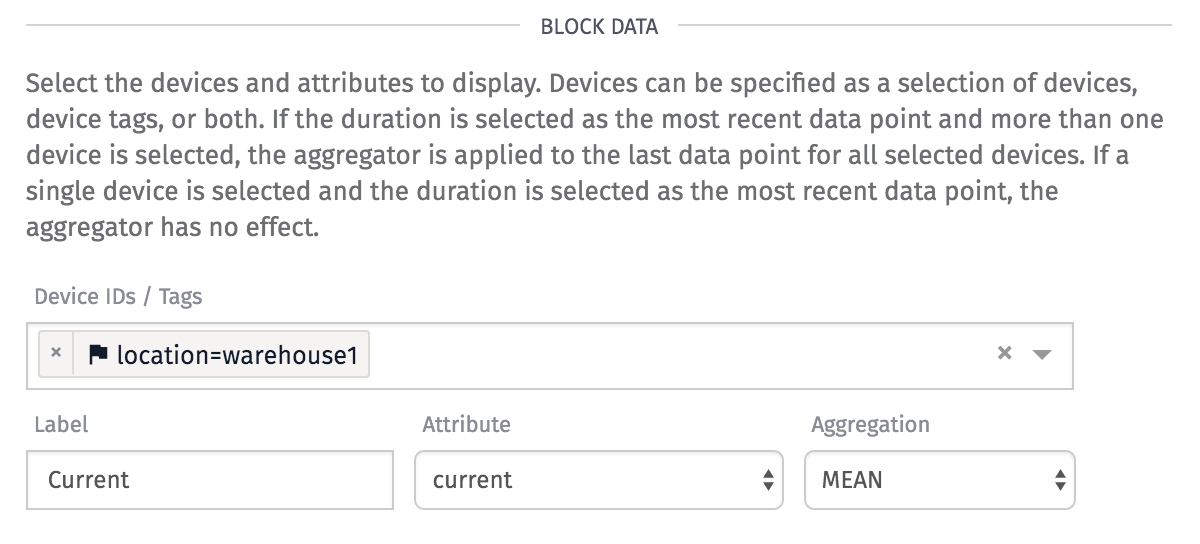
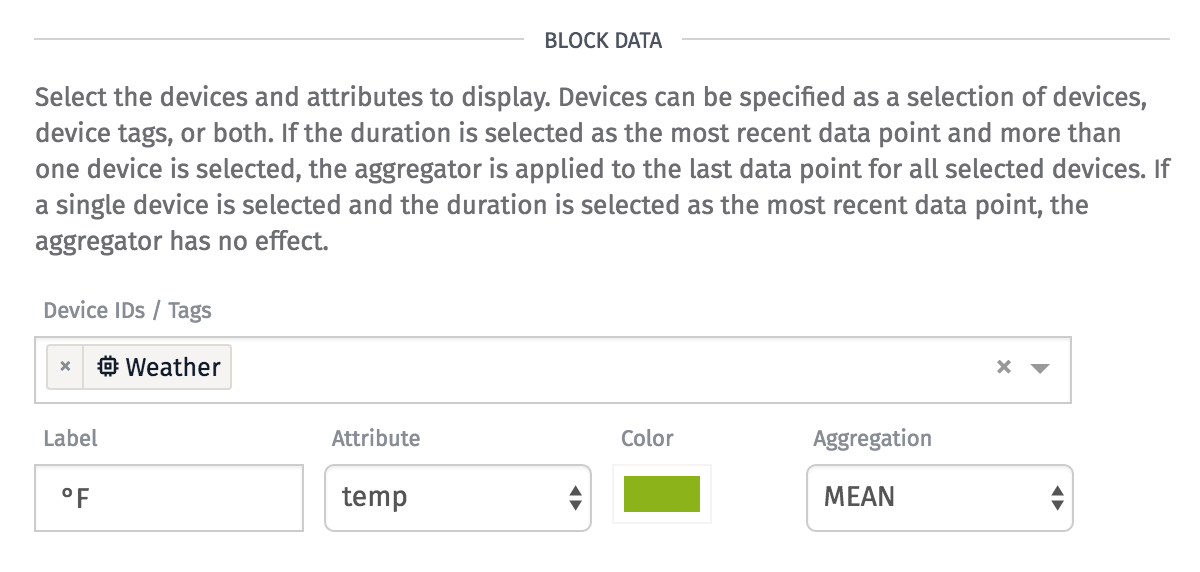
gauge conditions documentation

diff --git a/docs/dashboards/gauge.md b/docs/dashboards/gauge.md
@@ -46,11 +46,23 @@ Note that, when choosing a value other than "Last received data point", it is ne
 
 ### Block Data
 
-The block data takes four parameters, three of which are required:
+The block data takes five parameters, three of which are required:
 
 ![Gauge Block Data](/images/dashboards/gauge-block-data.png "Gauge Block Data")
 
 * **Label** is the text displayed beneath number / dial representation of your device(s) state. This can be any value, but you will want it to properly represent the data displayed along with it. HTML entities and <a href="https://daringfireball.net/projects/markdown/syntax" target="_blank">Markdown</a> are allowed here.
 * **Device IDS / Tags** is a [device query](/devices/device-queries) for choosing which devices are displayed within the gauge.
 * **Attribute** is the device attribute whose value will be displayed in the gauge. This attribute must be of the type `Number`. Note that if data from more than one device is being displayed, each of those devices must supply the same attribute name.
+* **Color** can only be set when the gauge type is set to "Dial". The color picker defaults to green, but any color may be selected as the default gauge color.
 * **Aggregation Type** is only visible when Duration is set to anything other than "Last received data point", OR when a device tag is supplied in the device query, OR if more than one device ID is supplied within the device query. This determines how the all the available data returned should be aggregated before displaying the value. For example, choosing "MEAN" will average all data points together before displaying within the gauge.
+
+### Conditional Gauge Colors
+
+If the gauge type is set to "Dial", you may optionally create a list of conditions that change the color of the gauge depending on the query's returned value. This works similarly to the [indicator block](/dashboards/indicator/), in that the first [expression](/workflows/accessing-payload-data/#expressions) that returns `true` determines the gauge's color. If none of them returns `true`, the default color set in the "Block Data" section will be the gauge's color.
+
+![Gauge Block Conditions](/images/dashboards/gauge-block-conditions.png "Gauge Block Conditions")
+
+The conditions can be arranged via drag-and-drop to set their priority relative to one another. Two variables are available when writing the expressions:
+
+* `{{value}}` represents the raw numeric value returned from the query.
+* `{{percent}}` is the percentage the value represents when compared against the minimum and maximum values set in the dial gauge configuration. For example, given a minimum of 10 and a maximum of 50, when {{value}} is equal to 40, the corresponding {{percent}} is 75.
